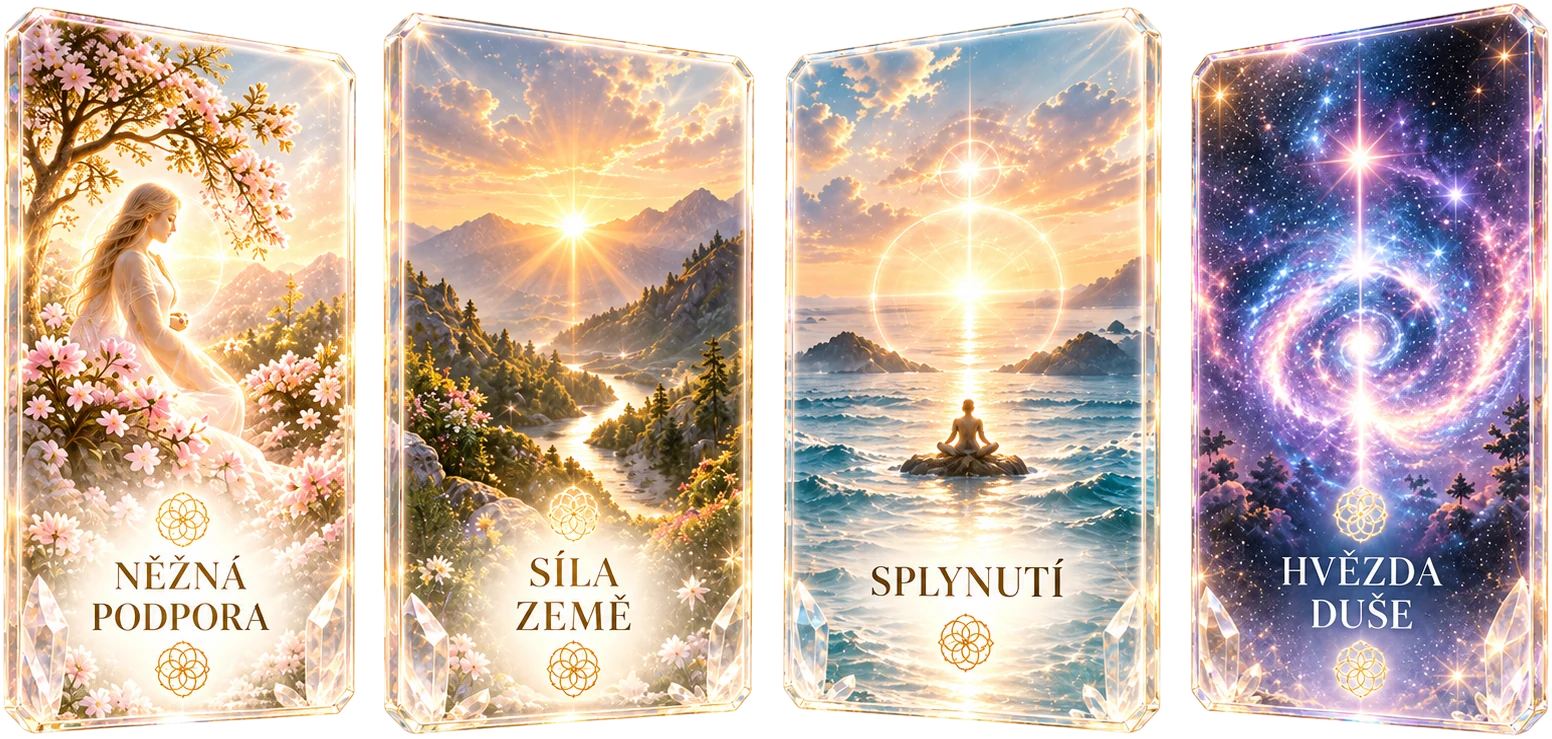
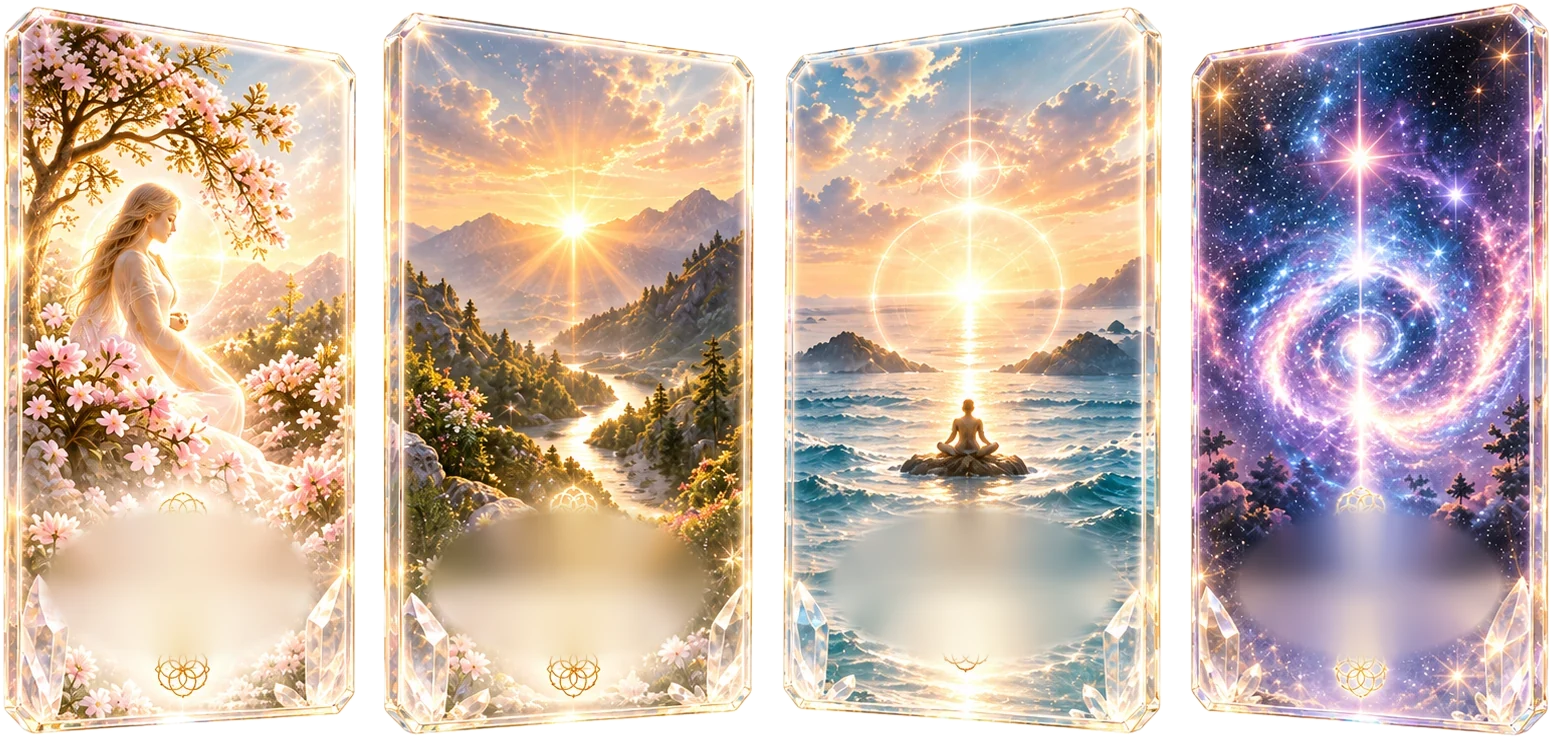
Hero: karty bez nápisů

diff --git a/oaza-web/meditace.html b/oaza-web/meditace.html
@@ -333,7 +333,7 @@ dialog .zavrit{position:absolute;top:12px;right:12px;width:40px;height:40px;bord
         <svg class="l3" viewBox="0 0 400 14" aria-hidden="true"><path d="M0 7h178M222 7h178" stroke="currentColor" stroke-width="1.2"/><path d="M200 1l6 6-6 6-6-6z" fill="currentColor"/></svg>
         <span class="l4">Crystal &amp; Retreat centrum</span>
       </div>
-      <div class="hero-karty" aria-hidden="true"><img src="/img/hero-karty.webp?v=2" alt="" width="1552" height="739" fetchpriority="high"></div>
+      <div class="hero-karty" aria-hidden="true"><img src="/img/hero-karty.webp?v=3" alt="" width="1552" height="739" fetchpriority="high"></div>
     </div>
   </div>
 </section>
